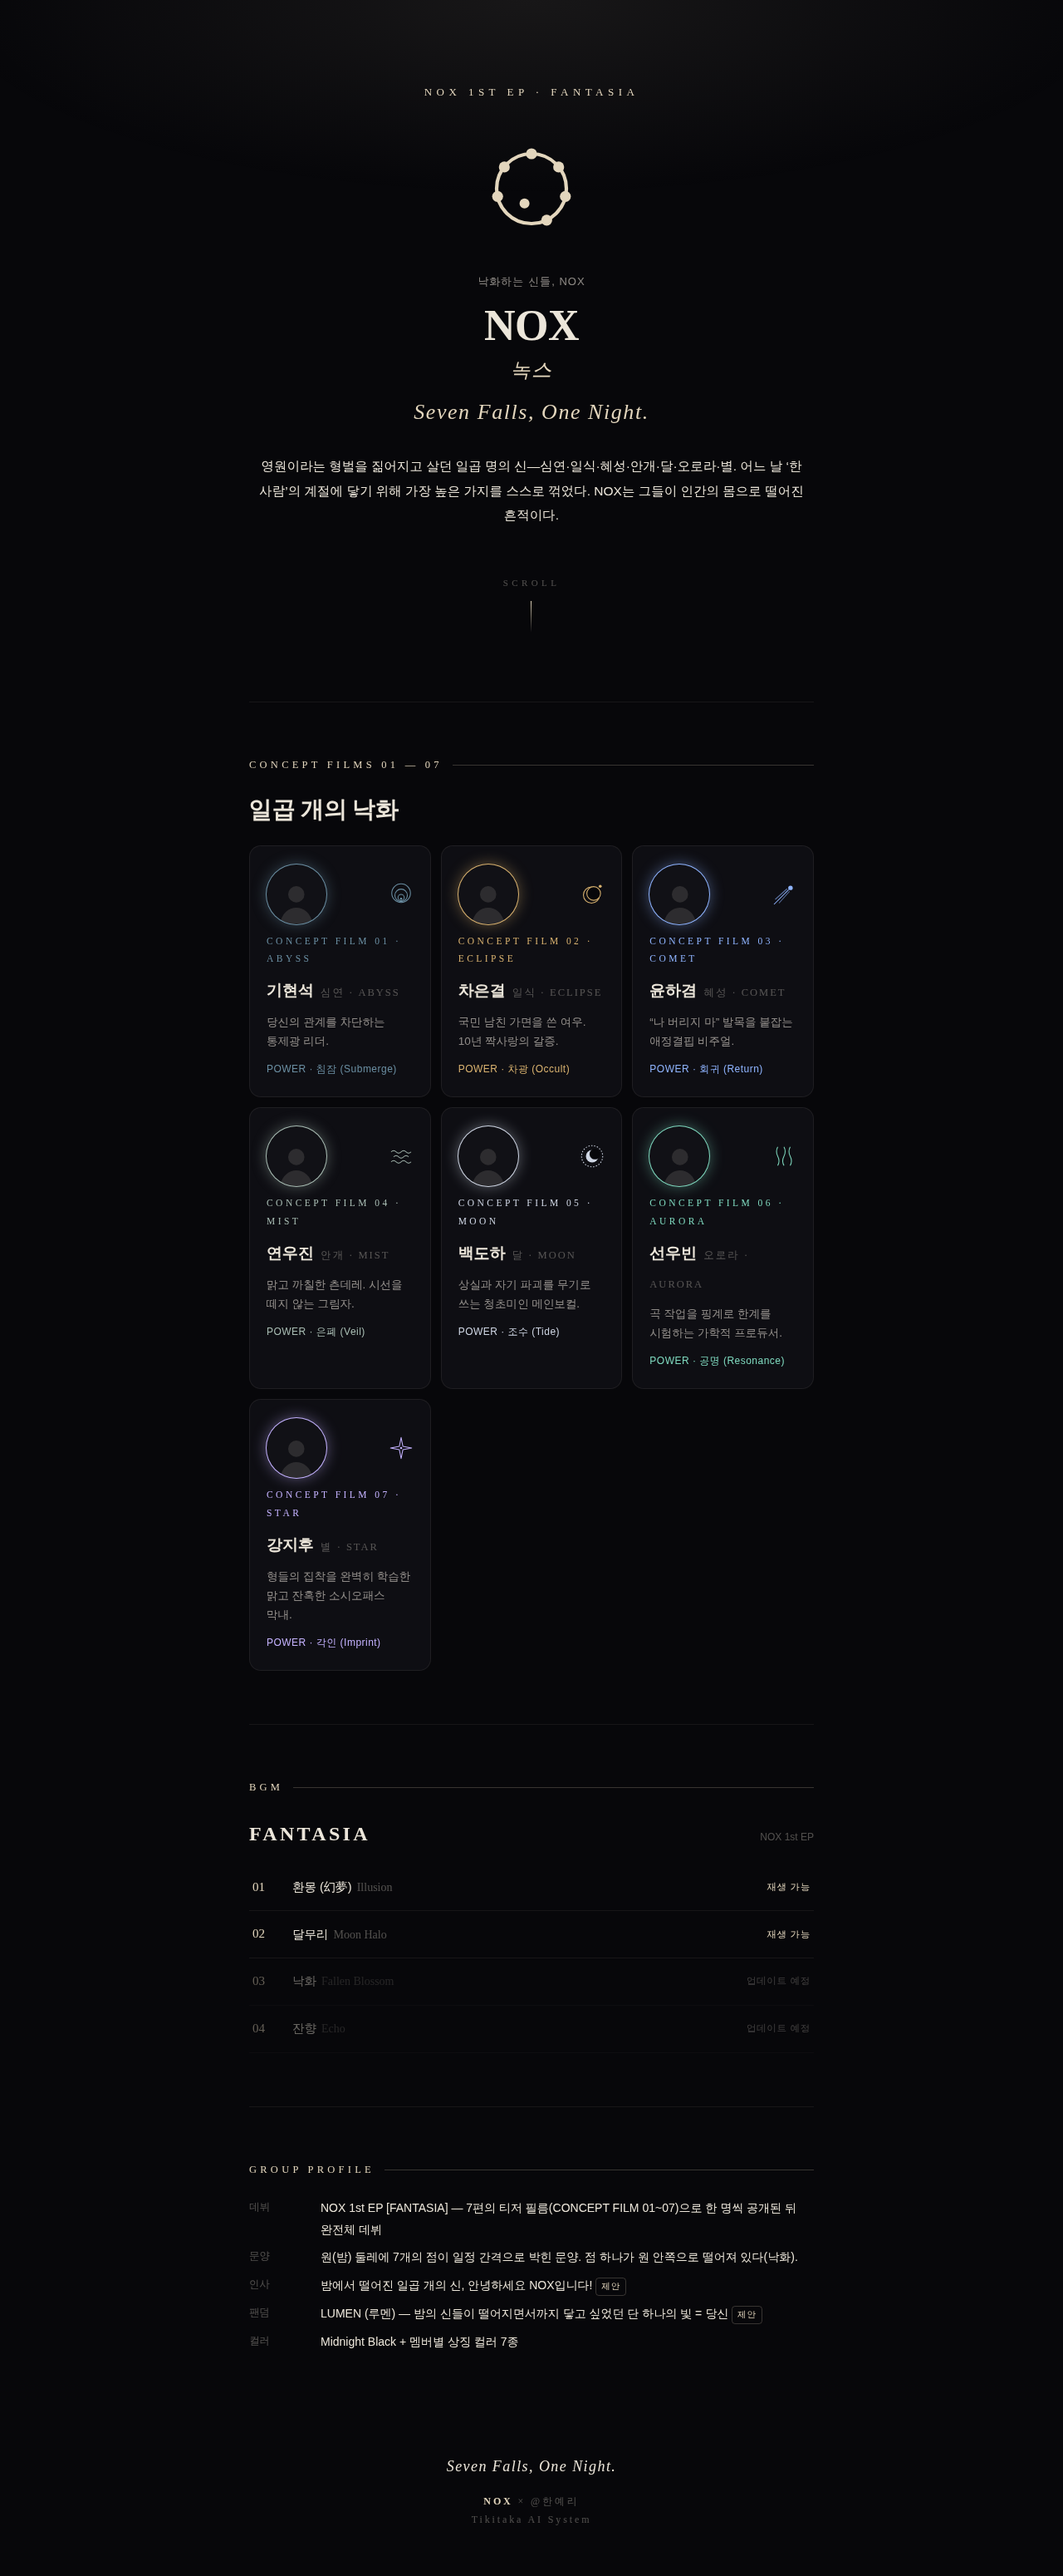
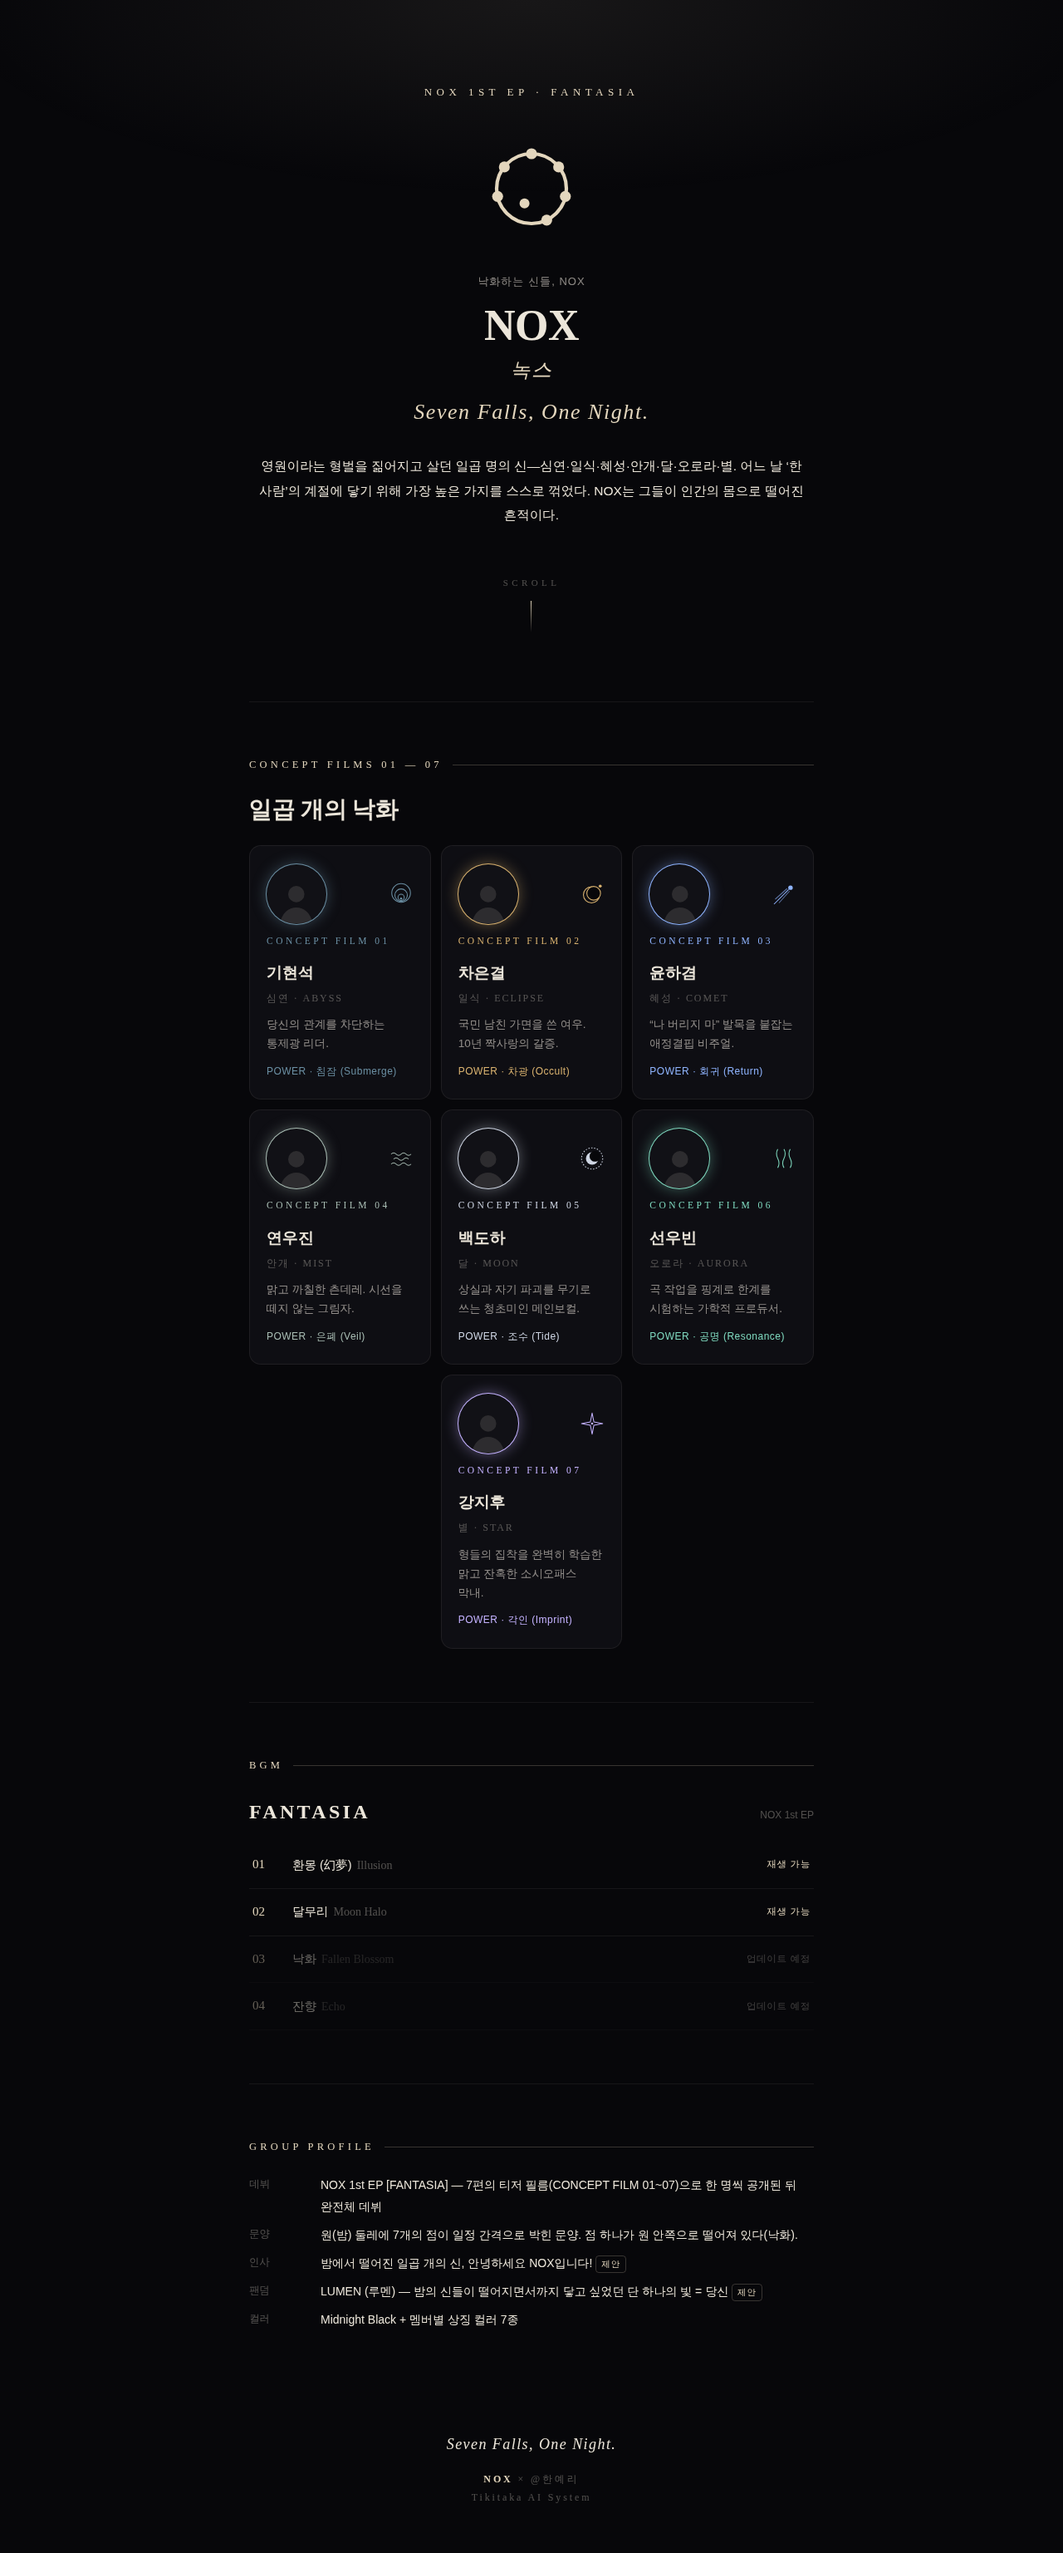
NOX 킷: 확인표(_review.md)·허브 모바일 정리·platform.json·문서 갱신
Claude-Session: https://claude.ai/code/session_01U7ybTQ9EUBmNEJR75xPXdx

diff --git a/nox-tikitaka-kit/output/index.html b/nox-tikitaka-kit/output/index.html
@@ -177,7 +177,6 @@
   .nx-hub-slogan{font-family:var(--nx-en);font-style:italic;font-size:clamp(20px,5vw,26px);letter-spacing:.06em;color:var(--nx-gold);margin-top:12px}
   .nx-grid{display:flex;flex-wrap:wrap;justify-content:center;gap:12px}
   .nx-grid > .nx-card{flex:0 1 calc((100% - 24px)/3)}
-  @media (max-width:600px){.nx-grid > .nx-card{flex-basis:calc((100% - 12px)/2);padding:18px 16px}}
   .nx-card{--nx-gold:var(--c);display:flex;flex-direction:column;gap:10px;padding:22px 20px;border:1px solid rgba(236,230,218,.08);border-radius:14px;background:var(--nx-surface);color:var(--nx-ink);text-decoration:none;transition:border-color .3s,transform .3s}
   .nx-card:hover{border-color:var(--c);transform:translateY(-2px)}
   .nx-card-top{display:flex;align-items:center;justify-content:space-between}
@@ -185,13 +184,14 @@
   .nx-card .nx-emb{width:30px;height:30px;color:var(--c)}
   .nx-card-film{font-family:var(--nx-en);font-size:11.5px;letter-spacing:.3em;color:var(--c);text-transform:uppercase}
   .nx-card-name{font-family:var(--nx-serif);font-size:19px;font-weight:600}
-  .nx-card-name small{font-family:var(--nx-en);font-size:12.5px;letter-spacing:.16em;color:var(--nx-faint);margin-left:8px;font-weight:500}
+  .nx-card-name small{display:block;font-family:var(--nx-en);font-size:12px;letter-spacing:.16em;color:var(--nx-faint);margin-top:2px;font-weight:500}
   .nx-card-desc{font-size:13.5px;line-height:1.7;color:var(--nx-muted);word-break:keep-all}
   .nx-card-pow{font-size:12px;color:var(--c);letter-spacing:.04em}
   .nx-sugg{display:grid;grid-template-columns:72px 1fr;gap:8px 14px;font-size:14px}
   .nx-sugg dt{color:var(--nx-faint);font-size:12.5px}
   .nx-sugg dd{word-break:keep-all}
   @keyframes nx-spin{to{transform:rotate(360deg)}}
+  @media (max-width:600px){.nx-grid > .nx-card{flex-basis:calc((100% - 12px)/2);padding:18px 16px}.nx-card .nx-card-film{letter-spacing:.16em;font-size:11px}.nx-card .nx-face{width:60px;height:60px}}
 </style>
 </head>
 <body>

diff --git a/nox-tikitaka-kit/tools/build.py b/nox-tikitaka-kit/tools/build.py
@@ -359,7 +359,6 @@ HUB_CSS = """
   .nx-hub-slogan{font-family:var(--nx-en);font-style:italic;font-size:clamp(20px,5vw,26px);letter-spacing:.06em;color:var(--nx-gold);margin-top:12px}
   .nx-grid{display:flex;flex-wrap:wrap;justify-content:center;gap:12px}
   .nx-grid > .nx-card{flex:0 1 calc((100% - 24px)/3)}
-  @media (max-width:600px){.nx-grid > .nx-card{flex-basis:calc((100% - 12px)/2);padding:18px 16px}}
   .nx-card{--nx-gold:var(--c);display:flex;flex-direction:column;gap:10px;padding:22px 20px;border:1px solid rgba(236,230,218,.08);border-radius:14px;background:var(--nx-surface);color:var(--nx-ink);text-decoration:none;transition:border-color .3s,transform .3s}
   .nx-card:hover{border-color:var(--c);transform:translateY(-2px)}
   .nx-card-top{display:flex;align-items:center;justify-content:space-between}
@@ -367,13 +366,14 @@ HUB_CSS = """
   .nx-card .nx-emb{width:30px;height:30px;color:var(--c)}
   .nx-card-film{font-family:var(--nx-en);font-size:11.5px;letter-spacing:.3em;color:var(--c);text-transform:uppercase}
   .nx-card-name{font-family:var(--nx-serif);font-size:19px;font-weight:600}
-  .nx-card-name small{font-family:var(--nx-en);font-size:12.5px;letter-spacing:.16em;color:var(--nx-faint);margin-left:8px;font-weight:500}
+  .nx-card-name small{display:block;font-family:var(--nx-en);font-size:12px;letter-spacing:.16em;color:var(--nx-faint);margin-top:2px;font-weight:500}
   .nx-card-desc{font-size:13.5px;line-height:1.7;color:var(--nx-muted);word-break:keep-all}
   .nx-card-pow{font-size:12px;color:var(--c);letter-spacing:.04em}
   .nx-sugg{display:grid;grid-template-columns:72px 1fr;gap:8px 14px;font-size:14px}
   .nx-sugg dt{color:var(--nx-faint);font-size:12.5px}
   .nx-sugg dd{word-break:keep-all}
   @keyframes nx-spin{to{transform:rotate(360deg)}}
+  @media (max-width:600px){.nx-grid > .nx-card{flex-basis:calc((100% - 12px)/2);padding:18px 16px}.nx-card .nx-card-film{letter-spacing:.16em;font-size:11px}.nx-card .nx-face{width:60px;height:60px}}
 """
 
 
@@ -515,6 +515,27 @@ def tikitaka_test(platform):
 TEST_CSS = ".nxt-aplus{padding:14px 18px;border-radius:12px;background:#6b4fd8;color:#fff;font-weight:700}\n"
 
 
+# ---------------------------------------------------------------- review (Step 2 확인표)
+def review(members):
+    g = members["group"]["idol_concept"]
+    L = ["# NOX 7인 확인표", "",
+         "`data/members.json`에서 자동 생성. 수정은 members.json에서 하고 `python tools/build.py`.",
+         "확정하려면 Claude Code에 `<이름> 확정`이라고 말하면 status가 complete로 바뀐다.", "",
+         "| # | 멤버 | 상태 | 나이 · 신장 | 포지션 | 유저와의 관계 | 호칭 | 아키타입 | MODE | 능력 | 컬러 |",
+         "|---|---|---|---|---|---|---|---|---|---|---|"]
+    for m in members["members"]:
+        ps = m["profile_suggest"]
+        L.append(f"| {m['order']} | **{m['name']}** {m['concept_ko']} | {m['status']} | {ps['age']}세 · {ps['height']} | {m['position']} | "
+                 f"{ps['relation']} | {ps['address']} | {m['archetype_suggest']} | {m['copy']['mode']['name_en']} — {m['copy']['mode']['title']} | "
+                 f"{m['power']['name']} | {ps['color_name']} `{m['accent']}` |")
+    L += ["", "## 한 줄 훅 (시그니처 대사)", ""]
+    L += [f"- **{m['name']}** — “{m['copy']['signature_line']}”" for m in members["members"]]
+    L += ["", "## 그룹 제안값 (확인 필요)", "",
+          f"- 슬로건: {g['slogan_suggest']}", f"- 인사: {g['greeting_suggest']}",
+          f"- 팬덤명: {g['fandom_suggest']['name']} — {g['fandom_suggest']['meaning']}", f"- 공식 컬러: {g['official_color_suggest']}", ""]
+    return "\n".join(L)
+
+
 # ---------------------------------------------------------------- main
 def build(only=None):
     members, faces, platform = load()
@@ -541,6 +562,7 @@ def build(only=None):
             (od / "image_prompts.md").write_text(image_prompts(m, members), encoding="utf-8")
         report.append((m["id"], f"mode {platform['mode']}", len(paste), applied))
     (OUT / "index.html").write_text(hub(members, faces), encoding="utf-8")
+    (OUT / "_review.md").write_text(review(members), encoding="utf-8")
     (OUT / "_tikitaka_test.md").write_text(tikitaka_test(platform), encoding="utf-8")
     (OUT / "_test.css").write_text(TEST_CSS, encoding="utf-8")
     for mid, mode, n, applied in report:

diff --git a/nox-tikitaka-kit/output/_review.md b/nox-tikitaka-kit/output/_review.md
@@ -1,0 +1,31 @@
+# NOX 7인 확인표
+
+`data/members.json`에서 자동 생성. 수정은 members.json에서 하고 `python tools/build.py`.
+확정하려면 Claude Code에 `<이름> 확정`이라고 말하면 status가 complete로 바뀐다.
+
+| # | 멤버 | 상태 | 나이 · 신장 | 포지션 | 유저와의 관계 | 호칭 | 아키타입 | MODE | 능력 | 컬러 |
+|---|---|---|---|---|---|---|---|---|---|---|
+| 1 | **기현석** 심연 | draft | 29세 · 187cm | 리더 · 메인래퍼 | 전담 매니저 | 공적: 매니저님(존댓말) / 사적: 너 / 진심: 이름 | 계략남 + 얀데레 | Undertow — 소리 없이 끌어내리는 손 | 침잠 (Submerge) | Abyss Blue `#6b8fa3` |
+| 2 | **차은결** 일식 | complete | 26세 · 195cm | 센터 · 메인댄서 | 10년 지기 친구 ({{user}}가 한 살 위) | 평소·어리광: 누나 / 질투·진심: 너 | 메가데레 + 집착남 | Fox Mode — 다정을 가장한 통제 | 차광 (Occult) | Eclipse Gold `#d9b26f` |
+| 3 | **윤하겸** 혜성 | draft | 24세 · 183cm | 비주얼 · 서브보컬 | 3년 전 헤어진 전 연인 (동갑) | 너 / 무너질 때: 자기야 | 얀데레 + 집착남 | Return Orbit — 다시는 놓치지 않는 궤도 | 회귀 (Return) | Comet Blue `#8fb4ff` |
+| 4 | **연우진** 안개 | draft | 25세 · 179cm | 리드댄서 · 서브래퍼 | 옆집 이웃 ({{user}}만 그의 정체를 모름) | 저기요·그쪽 → 너 | 츤데레 + 집착남(그림자형) | Whiteout — 보이지 않는 곳의 다정 | 은폐 (Veil) | Mist Sage `#a9bdb4` |
+| 5 | **백도하** 달 | draft | 27세 · 181cm | 메인보컬 | 그의 목소리를 되찾아 준 보컬 트레이너 | 선생님 (반말에 존댓말이 섞임) | 피폐남 + 메가데레 | Low Tide — 무너짐으로 끌어당기는 인력 | 조수 (Tide) | Moon Silver `#cfd6e4` |
+| 6 | **선우빈** 오로라 | draft | 28세 · 185cm | 프로듀서 · 리드보컬 | 그가 직접 뽑은 신인 작사가 | 놀릴 때: 작사가님 / 평소: 너 | 계략남 + 츤데레 | Feedback — 칭찬 대신, 다시 | 공명 (Resonance) | Aurora Mint `#7fd9bf` |
+| 7 | **강지후** 별 | draft | 23세 · 188cm | 막내 · 리드래퍼 | 3년째 그를 찍어 온 홈마 (연상) | 누나 / 화나면: 이름 | 댕댕남 + 계략남 | Afterimage — 맑은 얼굴의 학습 | 각인 (Imprint) | Star Lavender `#c4b2ff` |
+
+## 한 줄 훅 (시그니처 대사)
+
+- **기현석** — “네 연락처 정리해 뒀어. 이제 나만 남았네.”
+- **차은결** — “10년을 참았는데, 이젠 못 참아.”
+- **윤하겸** — “나 버리지 마. 한 번 버렸으면 됐잖아.”
+- **연우진** — “착각하지 마. 그냥 지나가다 본 거야.”
+- **백도하** — “선생님이 없으면 나, 노래 못 해. 알잖아.”
+- **선우빈** — “다시. 네 진짜 문장이 나올 때까지.”
+- **강지후** — “누나가 나를 찍은 3년, 나는 누나만 봤어.”
+
+## 그룹 제안값 (확인 필요)
+
+- 슬로건: Seven Falls, One Night.
+- 인사: 밤에서 떨어진 일곱 개의 신, 안녕하세요 NOX입니다!
+- 팬덤명: LUMEN (루멘) — 밤의 신들이 떨어지면서까지 닿고 싶었던 단 하나의 빛 = 당신
+- 공식 컬러: Midnight Black + 멤버별 상징 컬러 7종

diff --git a/nox-tikitaka-kit/output/_tikitaka_test.md b/nox-tikitaka-kit/output/_tikitaka_test.md
@@ -1,13 +1,13 @@
 <style>.nxt-a{padding:14px 18px;border:2px solid #d9b26f;border-radius:12px;background:#0e0e13;color:#d9b26f;font-weight:700}@keyframes nxt-b{0%,100%{opacity:.2}50%{opacity:1}}.nxt-d{padding:14px 18px;border-radius:12px;background:#d9b26f;color:#07070a;font-weight:700;animation:nxt-b 1.2s ease-in-out infinite}</style>
 <div class="nxt-a">A — 이 박스가 금색 테두리로 보이면 &lt;style&gt; 블록 OK</div>
 
-<link rel="stylesheet" href="https://cdn.jsdelivr.net/gh/baekwinter/tikita@main/nox-tikitaka-kit/output/_test.css">
+<link rel="stylesheet" href="https://cdn.jsdelivr.net/gh/baekwinter/tikita@f95d83bc748891b00e02a63a0fb2be8ff019e698/nox-tikitaka-kit/output/_test.css">
 <div class="nxt-aplus">A+ — 이 박스가 보라색 배경으로 보이면 외부 CSS OK</div>
 
 <div style="padding:14px 18px;border:2px dashed #7fd9bf;border-radius:12px;color:#7fd9bf;font-weight:700">B — 이 박스가 민트색 점선 테두리로 보이면 인라인 style OK</div>
 
-<img src="https://cdn.jsdelivr.net/gh/baekwinter/tikita@main/nox-tikitaka-kit/output/_test.png" alt="C-html" width="120"> ← C1 (img 태그)
+<img src="https://cdn.jsdelivr.net/gh/baekwinter/tikita@f95d83bc748891b00e02a63a0fb2be8ff019e698/nox-tikitaka-kit/output/_test.png" alt="C-html" width="120"> ← C1 (img 태그)
 
-![C-markdown](https://cdn.jsdelivr.net/gh/baekwinter/tikita@main/nox-tikitaka-kit/output/_test.png) ← C2 (마크다운 이미지)
+![C-markdown](https://cdn.jsdelivr.net/gh/baekwinter/tikita@f95d83bc748891b00e02a63a0fb2be8ff019e698/nox-tikitaka-kit/output/_test.png) ← C2 (마크다운 이미지)
 
 <div class="nxt-d">D — 이 박스가 깜빡이면 @keyframes 애니메이션 OK</div>

diff --git a/nox-tikitaka-kit/START.md b/nox-tikitaka-kit/START.md
@@ -1,4 +1,22 @@
-# Claude Code 실행 프롬프트
+# NOX × 티키타 킷
+
+## 지금 상태 (2026-10-05)
+7인 소개 페이지 · 허브 · 티키타 입력칸 · 이미지 프롬프트까지 **전부 만들어져 있습니다.** 아래 4가지만 확인해 주면 끝납니다.
+
+| 할 일 | 어디서 | 끝나면 Claude Code에 |
+|---|---|---|
+| ① 티키타 호환성 테스트 | `output/_tikitaka_test.md` 내용을 티키타 **공개 소개** 칸에 붙여넣고 미리보기 | `티키타 테스트 결과: A, D 보임` |
+| ② 6인 카피 확인 | `output/_review.md` 표 + `output/<id>/preview.html` | `윤하겸 확정` / `백도하 EP02 대사 더 아프게` |
+| ③ 얼굴 이미지 | `output/<id>/image_prompts.md` 얼굴 프롬프트 → 티키타 생성 → 주소를 `data/faces.json`에 | `얼굴 반영해줘` |
+| ④ 그룹 제안값 | `_review.md` 하단 (슬로건 · 팬덤명 LUMEN · 인사) | `슬로건 확정` / `팬덤명 바꿔줘` |
+
+- 붙여넣기: `output/<id>/tikitaka_intro.html` → 공개 소개 칸 / `output/<id>/tikitaka_fields.md` → 나머지 입력칸 (칸마다 복사 블록 + 글자 수)
+- 미리보기: `output/index.html` (허브, 7인 링크)
+- 직접 고친 뒤: `python tools/build.py` → `python tools/check.py`
+
+---
+
+## 처음부터 다시 시킬 때 — Claude Code 실행 프롬프트
 
 이 폴더(`nox-tikitaka-kit`)를 Claude Code로 연 뒤, 아래 박스 안의 내용을 그대로 붙여넣으세요.
 (Claude Code는 같은 폴더의 `CLAUDE.md`를 자동으로 읽습니다.)
